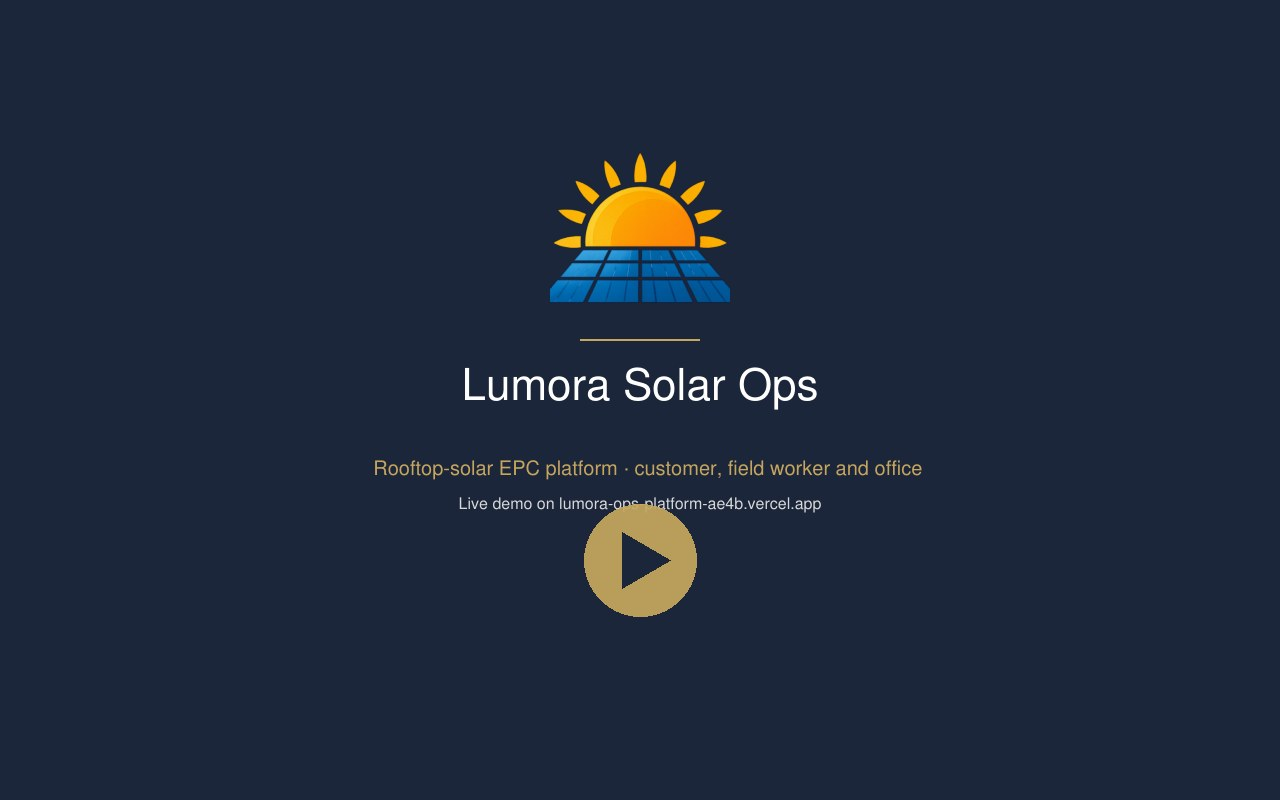
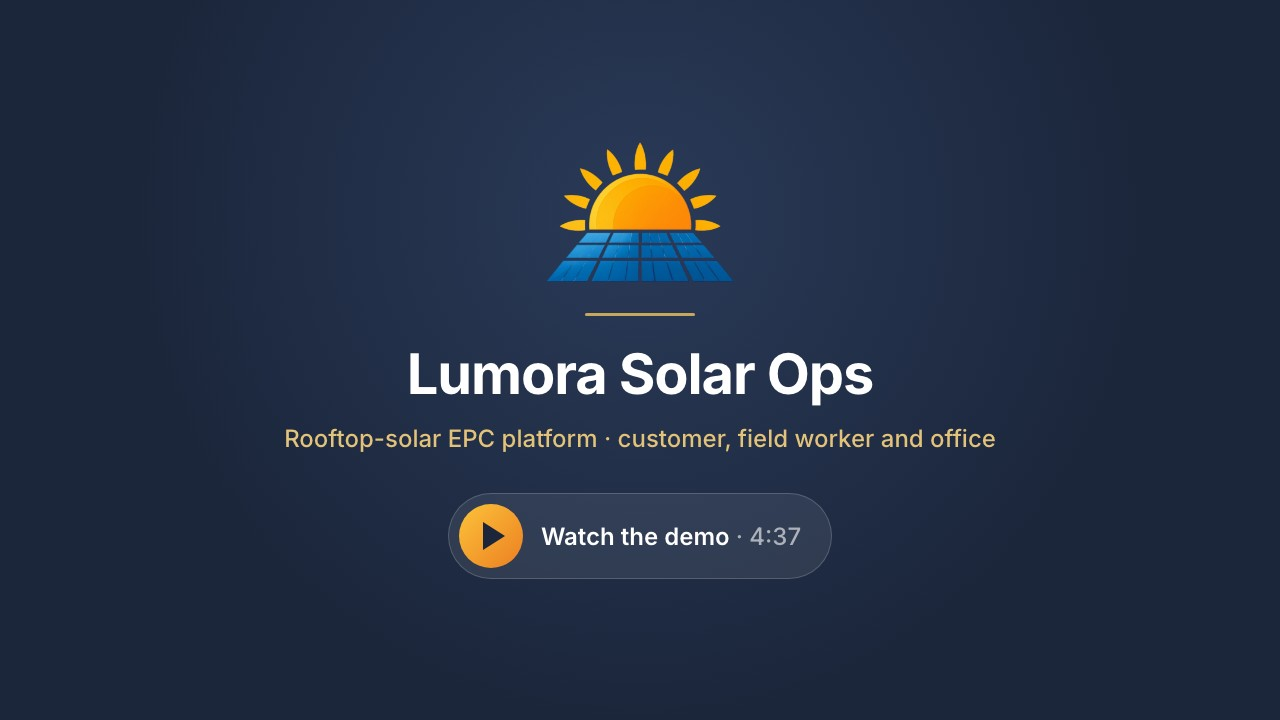
README: screenshots and video cover from the new UI
Retake every screenshot from the new walkthrough recording (no caption
overlay), rebuild the video cover with the uncut logo, and show the
customer project tracker in the Hindi portal section.

Changed region(s): [[0.2188, 0.1222, 0.7812, 0.825]]

diff --git a/README.md b/README.md
@@ -211,9 +211,11 @@ Under the hood, a **pure, tested state machine** moves each project forward only
 
 ### Customer portal (Hindi)
 
-| Documents: rejection reason appears live | Quote: savings, accept, PDF |
+| Home: live project tracker across 10 stages | Documents: rejection reason appears live |
 |---|---|
-| ![Documents with rejected Aadhaar](docs/screenshots/documents-rejected.jpg) | ![Customer quotation in Hindi](docs/screenshots/customer-quote-hindi.jpg) |
+| ![Customer project tracker in Hindi](docs/screenshots/customer-tracker-hindi.jpg) | ![Documents with rejected Aadhaar](docs/screenshots/documents-rejected.jpg) |
+| **Quote: savings, accept, PDF** | |
+| ![Customer quotation in Hindi](docs/screenshots/customer-quote-hindi.jpg) | |
 
 ### Field worker's phone
 
